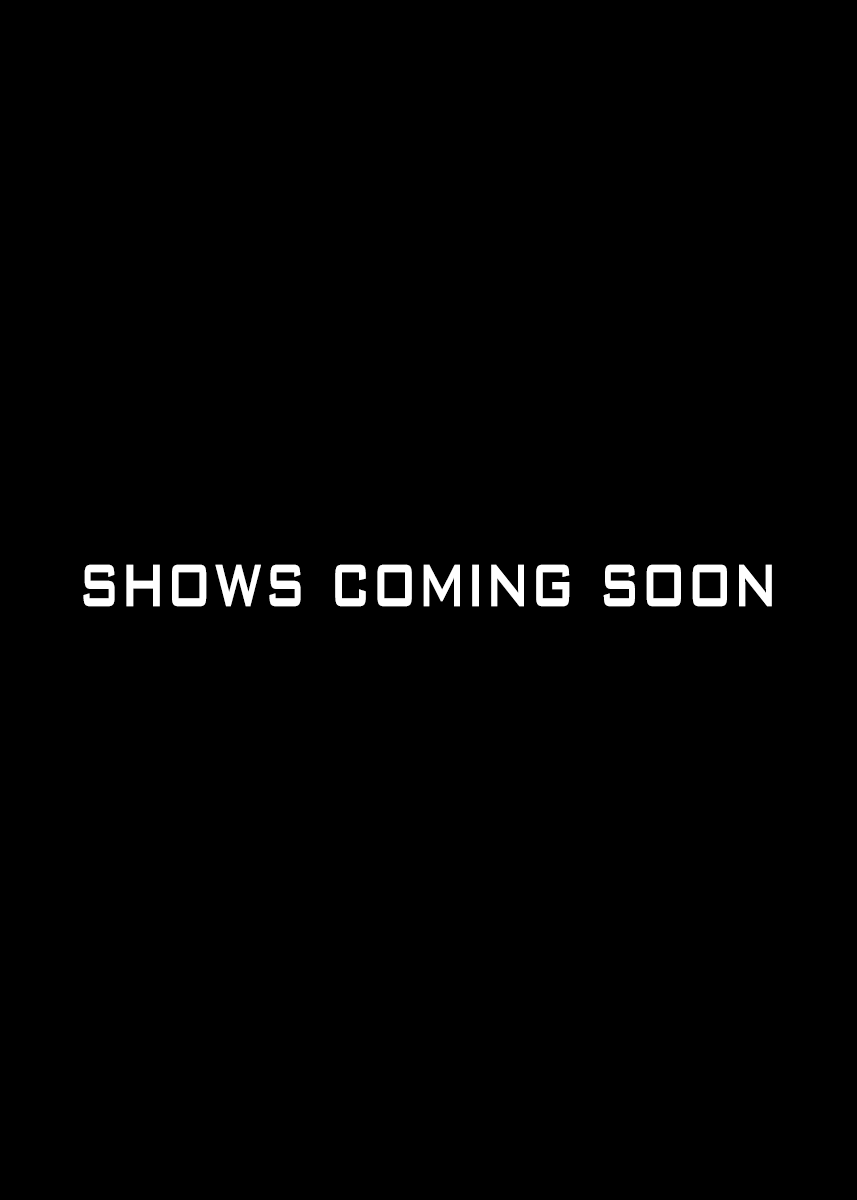
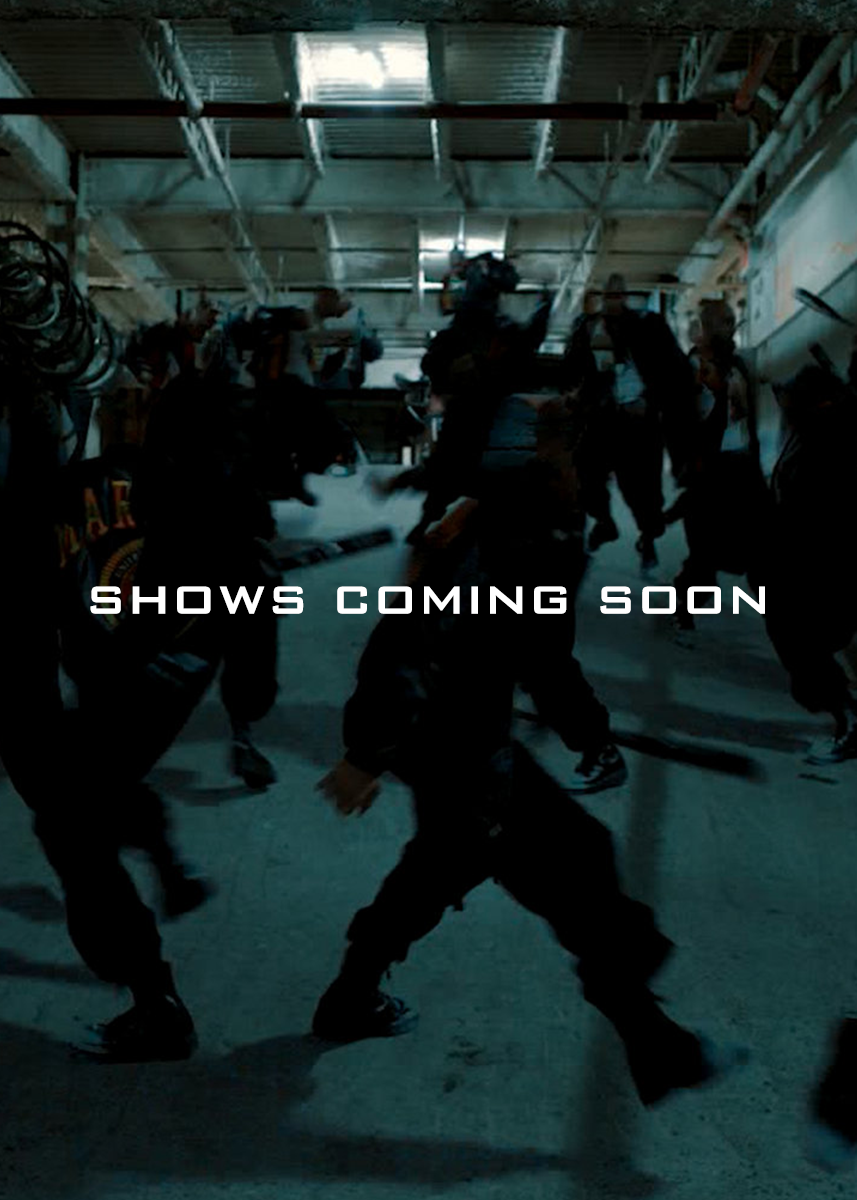
Add files via upload

diff --git a/index.html b/index.html
@@ -12,11 +12,8 @@
     <meta property=" " />
     <meta property=" " content=" " />
     <meta property="og:description" content="IZE" />
-    <meta property="og:image" content=" " />
+    <meta property="og:image" content="assets/thumbnail.jpg" />
     <meta property="og:image:secure_url" content=" " />
-    <meta property="og:image:type" content="image/jpeg" />
-    <meta property="og:image:width" content="1255" />
-    <meta property="og:image:height" content="784" />
     <meta property="og:video" content=" " />
 
     <link rel="stylesheet" href="assets/css/style.css" />
@@ -74,7 +71,8 @@
     </div>
 
     <div class="section" id="section-video">
-      <iframe
+      <iframe width="560" height="315" src="https://www.youtube.com/embed/videoseries?list=UULtYnWyUyRjqe5n87tk1WYg" frameborder="0" allow="accelerometer; autoplay; clipboard-write; encrypted-media; gyroscope; picture-in-picture" allowfullscreen></iframe>
+      <!-- <iframe
         width="560"
         height="315"
         src="https://www.youtube-nocookie.com/embed/g9NTQs08kas"
@@ -90,7 +88,7 @@
         frameborder="0"
         allow="accelerometer; autoplay; clipboard-write; encrypted-media; gyroscope; picture-in-picture"
         allowfullscreen
-      ></iframe>
+      ></iframe> -->
     </div>
 
     <div class="section" id="section-music" margin-left=auto margin-right=auto>
@@ -144,7 +142,7 @@
     </div>
 
     <div class="section" id="section-merch" margin-left=auto margin-right=auto>
-      <a>MERCH COMING SOON</a>
+      <a>MERCH STORE COMING SOON</a>
 </div>
 
 

diff --git a/videos.html b/videos.html
@@ -40,6 +40,20 @@
 
 				cursor: pointer;
 			}
+			/* #id-playlist {
+				margin-left: 250px;
+			} */
+			#subscribe-btn {
+				width: 560px;
+				display: inline-block;
+				 margin-bottom: 0px;
+			}
+
+			@media only screen and (max-width: 600px) {
+				#subscribe-btn {
+					margin-bottom: 30px;
+				}
+			}
 		</style>
 
 
@@ -56,15 +70,12 @@
 
 	<script src="https://apis.google.com/js/platform.js"></script>
 
-<div class="g-ytsubscribe" data-channelid="UCLtYnWyUyRjqe5n87tk1WYg" data-layout="full" data-count="default"></div>
+<div id="subscribe-btn">
+	<div width="560" height="315" class="g-ytsubscribe" data-channelid="UCLtYnWyUyRjqe5n87tk1WYg" data-layout="full" data-count="default"></div>
+</div>
 
-	<br>
-	<br>
-	<br>
-	<br>
-	<br>
-	<br>
-	<br>
+<iframe width="560" height="315" src="https://www.youtube.com/embed/videoseries?list=UULtYnWyUyRjqe5n87tk1WYg" frameborder="0" allow="accelerometer; autoplay; clipboard-write; encrypted-media; gyroscope; picture-in-picture" allowfullscreen></iframe>
+
 	<br>
 	<iframe
 		width="560"
@@ -74,8 +85,6 @@
 		allow="accelerometer; autoplay; clipboard-write; encrypted-media; gyroscope; picture-in-picture"
 		allowfullscreen
 	></iframe>
-	<br>
-	<br>
 	<iframe
 		width="560"
 		height="315"

diff --git a/assets/css/style.css b/assets/css/style.css
@@ -242,8 +242,10 @@ font-size: 150%;
 }
 
 #section-video iframe {
+  top: 45%;
   width: 560px;
   height: 315px;
+  position: relative;
 }
 
 #joystick {

diff --git a/merch.html b/merch.html
@@ -51,7 +51,7 @@
 
 <div class="videoPage">
 
-	MERCH COMING SOON
+	MERCH STORE COMING SOON
 </div>
 
 </body>
